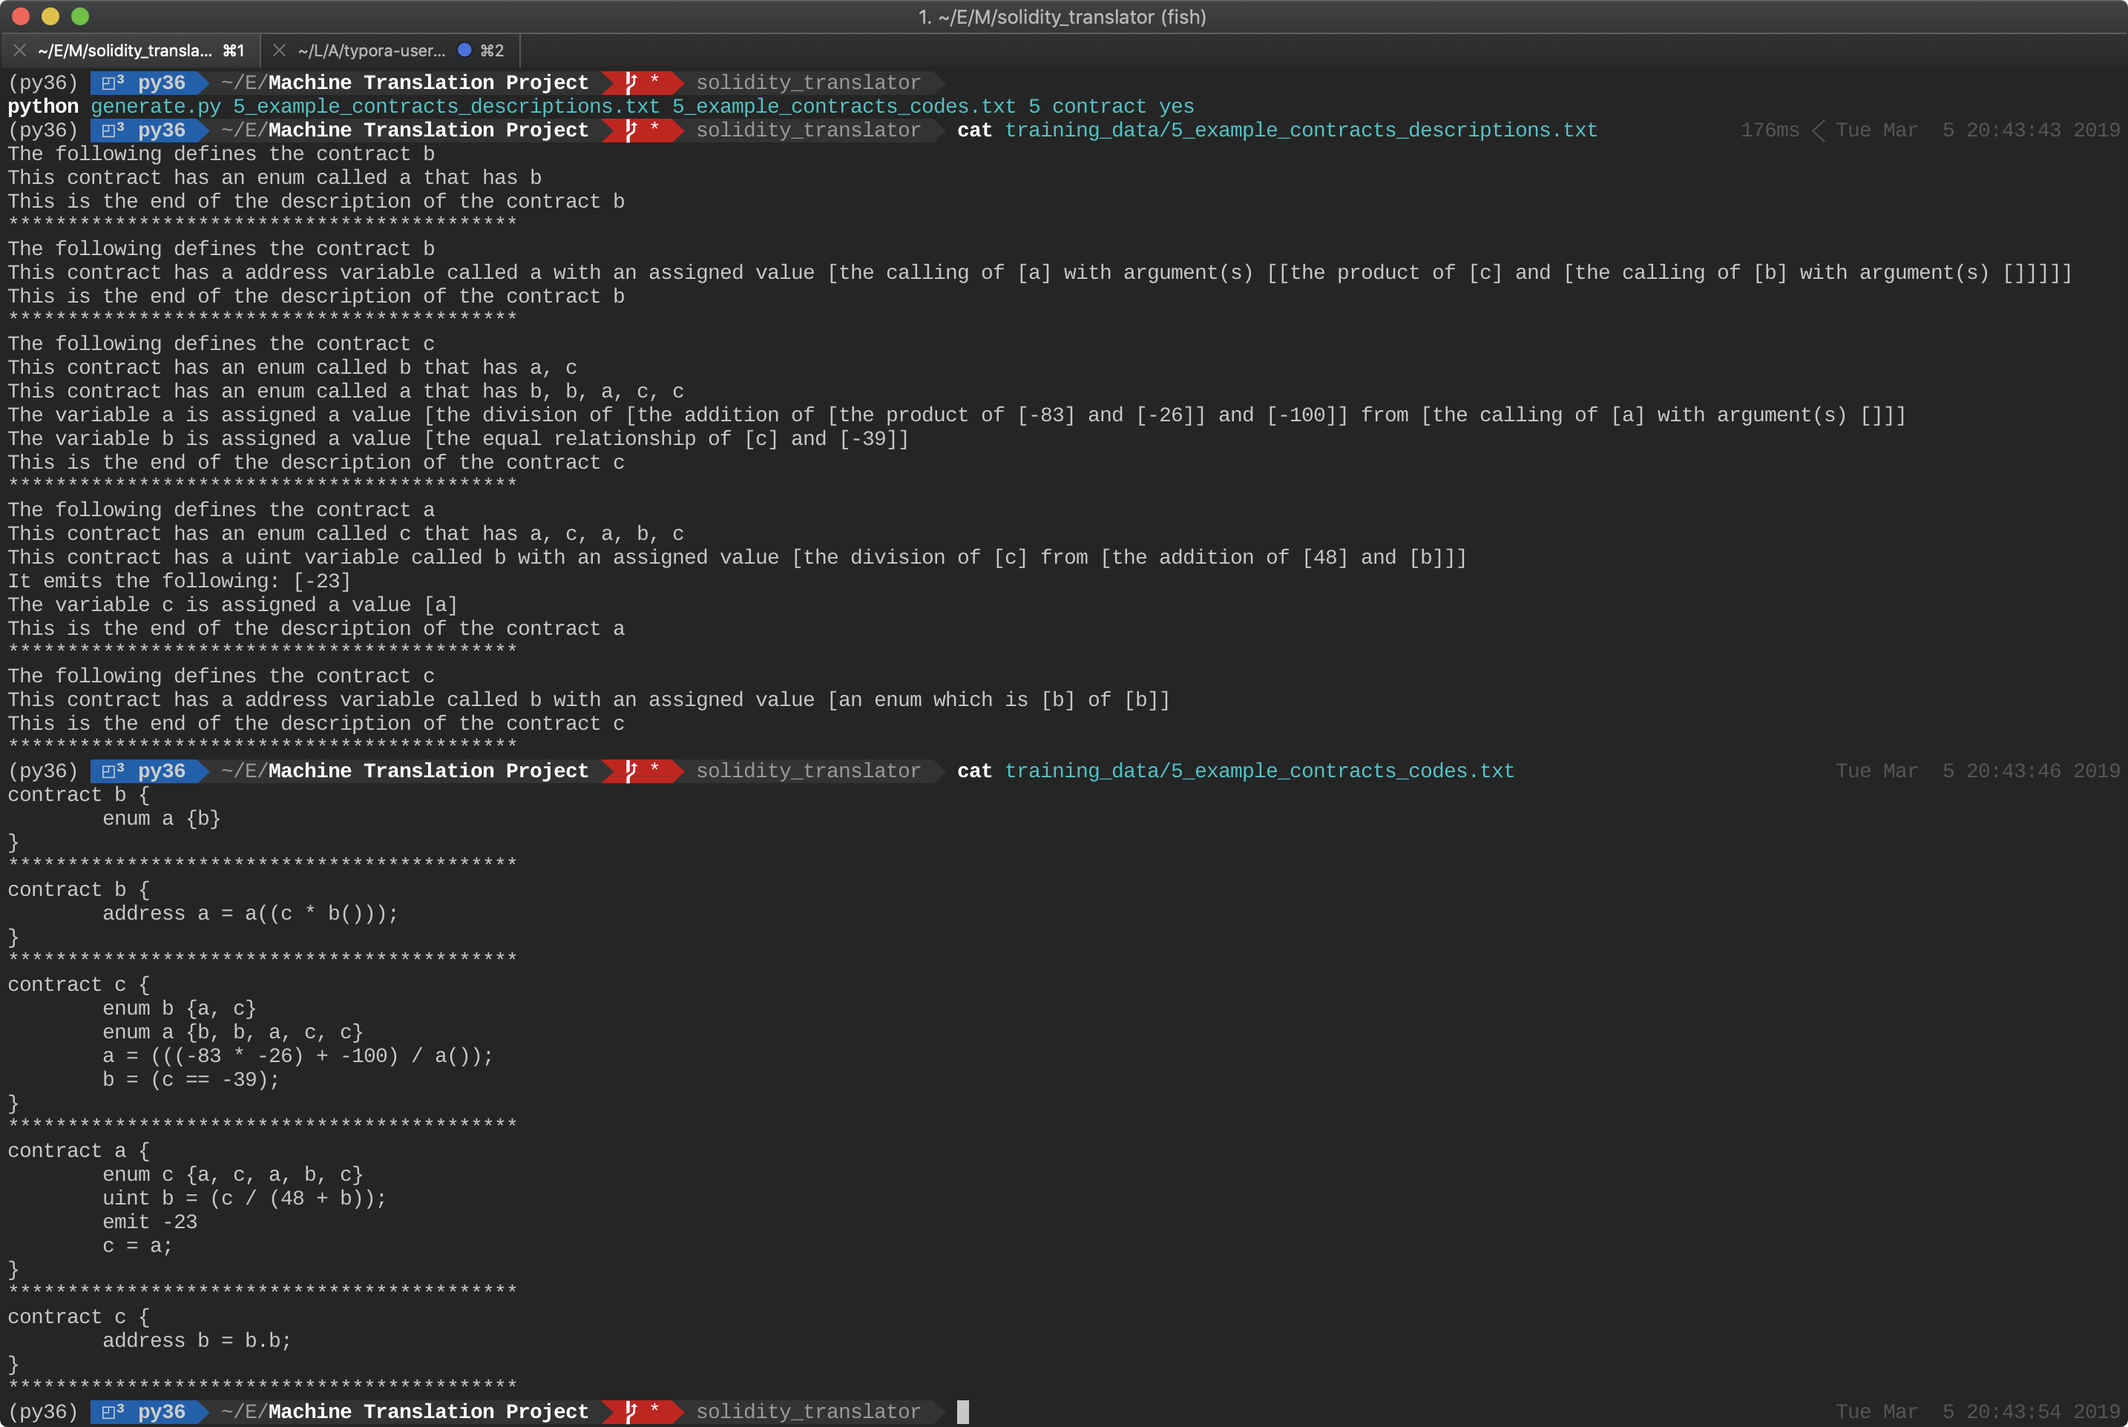
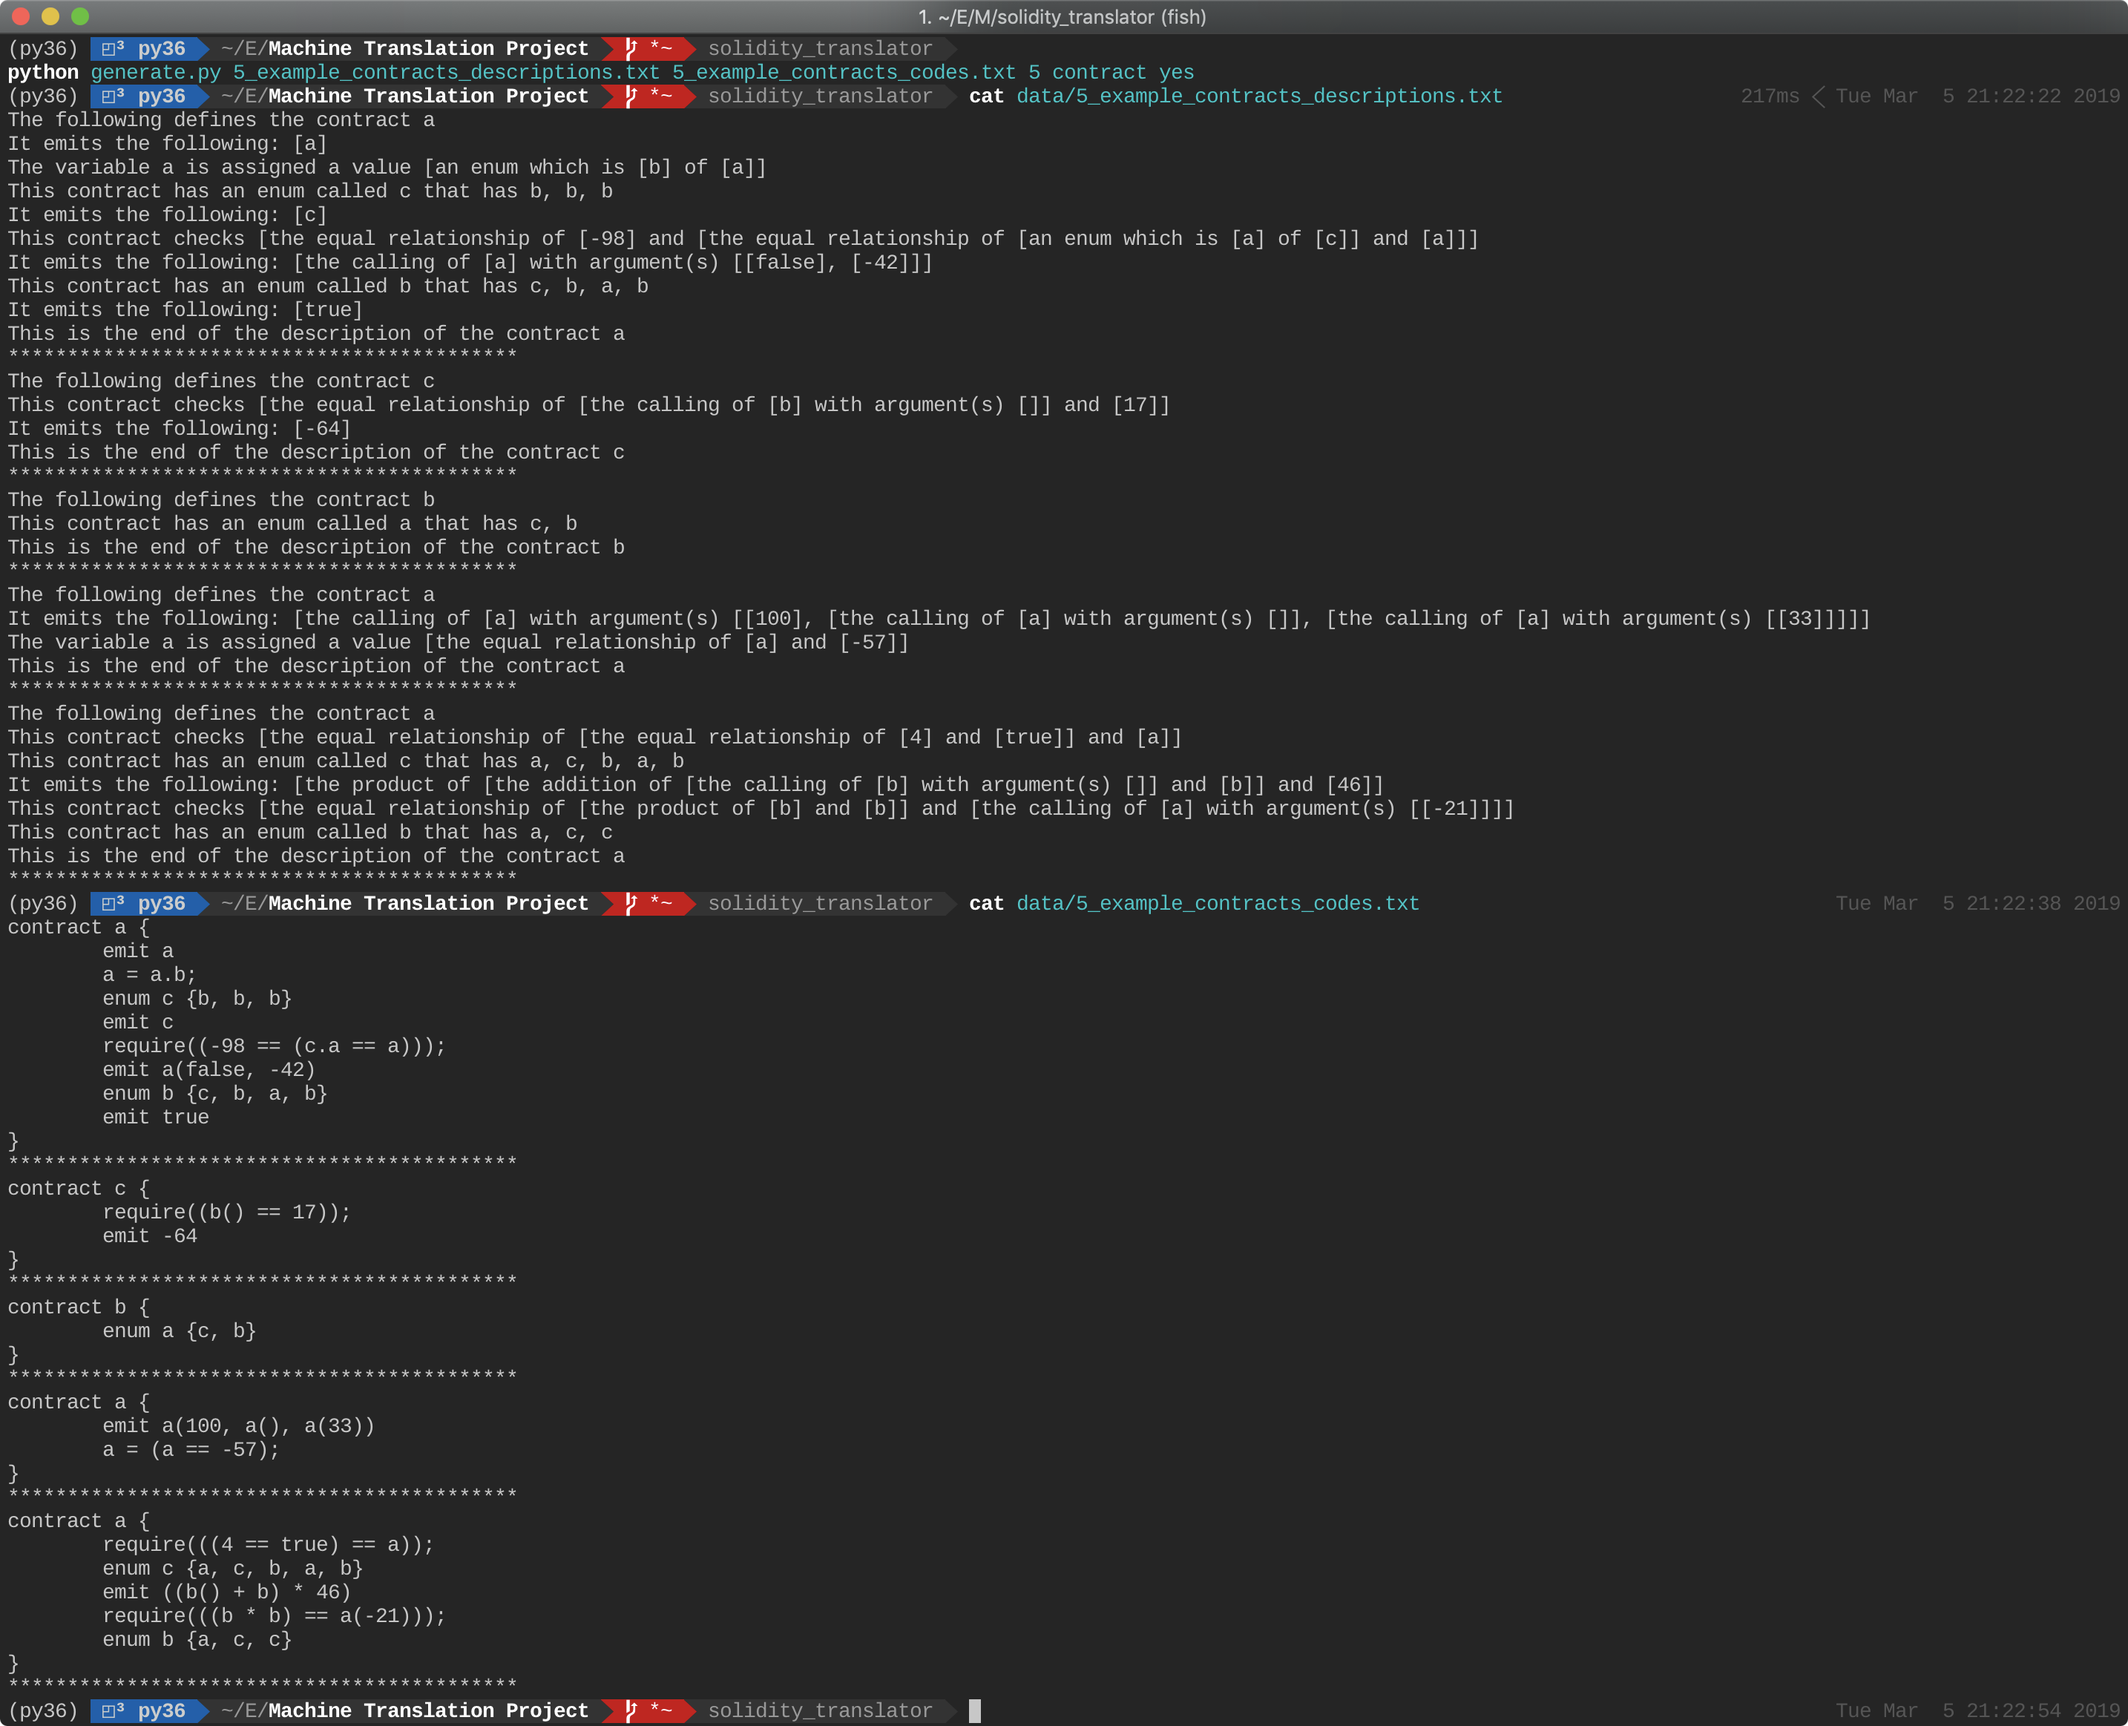
Removing training_data dir. Finishing the first draft of readme

diff --git a/solidity_translator/src/utils/sample_loader_saver.py b/solidity_translator/src/utils/sample_loader_saver.py
@@ -12,7 +12,7 @@ def save_samples_to_files(contracts: [DefineContract], text_file_name: str = Non
         write_items_to_file(contract_codes, code_file_name)
 
 
-def write_items_to_file(items, file_name, path_name='../training_data/', formatize=True):
+def write_items_to_file(items, file_name, path_name='../data/', formatize=True):
     file = open(path_name + file_name, 'w')
 
     for item in items:
@@ -26,7 +26,7 @@ def write_items_to_file(items, file_name, path_name='../training_data/', formati
     file.close()
 
 
-def load_sample_texts(text_file_name: str, path_name: str = '../training_data/') -> [[str]]:
+def load_sample_texts(text_file_name: str, path_name: str = '../data/') -> [[str]]:
     texts_lines = read_items_from_file(text_file_name, path_name)
     contract_texts = []
 
@@ -38,7 +38,7 @@ def load_sample_texts(text_file_name: str, path_name: str = '../training_data/')
     return contract_texts
 
 
-def load_sample_codes(code_file_name: str, path_name: str = '../training_data/') -> [[str]]:
+def load_sample_codes(code_file_name: str, path_name: str = '../data/') -> [[str]]:
     codes_lines = read_items_from_file(code_file_name, path_name)
     contract_codes = []
 
@@ -47,7 +47,7 @@ def load_sample_codes(code_file_name: str, path_name: str = '../training_data/')
     return contract_codes
 
 
-def read_items_from_file(file_name: str, path_name: str = '../training_data/') -> [[str]]:
+def read_items_from_file(file_name: str, path_name: str = '../data/') -> [[str]]:
     file = open(path_name + file_name, 'r')
     items = []
     item = []

diff --git a/solidity_translator/generate.py b/solidity_translator/generate.py
@@ -113,11 +113,11 @@ def main():
     samples = generate_samples(n, given_names)
     write_items_to_file(list(map(lambda sample: sample.convert_to_text(), samples)),
                         text_file_name,
-                        './training_data/',
+                        './data/',
                         formatize=formatize)
     write_items_to_file(list(map(lambda sample: beautify_contract_codes(sample.convert_to_solidity()), samples)),
                         code_file_name,
-                        './training_data/',
+                        './data/',
                         formatize=formatize)
 
 if __name__ == '__main__':

diff --git a/README.md b/README.md
@@ -14,9 +14,9 @@ Please note that this project is by far only a **prototype** or a **proof of con
 
 Above is an image demonstrating how to use this rudimentary translator that can translate a relatively restricted text in English into the code solidity to define a smart contract. The translation can be done in two methods: by rule or through the usage of a transformer obtained [here](https://github.com/jadore801120/attention-is-all-you-need-pytorch). 
 
-The rudimentary English text and the corresponding solidity code to train the transformer are generated together using the python script `generate.py` The generated files will be inside the `training_data` directory. An example usage is given below. 
+The rudimentary English text and the corresponding solidity code to train the transformer are generated together using the python script `generate.py` The generated files will be inside the `data` directory. An example usage is given below. 
 
-```
+```shell
 python generate.py 5_example_contracts_descriptions.txt \ 5_example_contracts_codes.txt 5 contract yes
 ```
 
@@ -28,15 +28,43 @@ The generated contracts are random. The dimension of the input names however is 
 
 The templates used to randomly generate the English texts and solidity codes are located in `solidity_translator/src/language_rules`. In this directory, there are two main classes: `Expression` and `Template`. Whereas an `Expression` is only something basic such as variable names or numerical operations, etc., a template can be as simple as a variable definition or as complicated as a definition of a function or even a whole contract. In addition, note how the expressions in the descriptions are surrounded by square brackets. This is a simplification so that during rule based translation, it is easier to manually parse the description texts and to generate the corresponding codes. 
 
+## Improving the translator by training the transformer model with contracts of more variety sorts
 
+If one wants to write his own contracts and test the translation functionality, he could refer two these two files in side the `solidity_translator/src/language_rules` directory, which contains the formats of the descriptions for each expression or template as well as the corresponding parsing rules, i.e. how to construct an expression or template if given a well written English text description.
 
+One should keep in mind that the currently trained transformer model is not powerful enough to handle all sorts of translation. It is trained to prove the possibility of using a transformer to do the translation task. One can certainly enhance the translator by doing the following:
 
+1.  Adding more expressions and templates in the `expressions.py` or `templates.py` correspondingly. In the `generate.py` use a larger set of vocabulary for variable names instead of the current `a b c`.
 
+2. Modify the file `sample_generator.py` to add functions to assist generating the newly created expressions or templates. 
 
+3. Call `generate.py` as shown above 2 times to generate 2 sets of new files, which located in the `data ` directory. One for training and the other for validating. One can control how many samples should be generated. *Note that in the above example, by the end of the command a `yes` is given. Here it should be `no`. This way, the description   generated for each contract will be one line instead of multiple.*
 
+4. For one set of files, rename the file containing textual descriptions into `train.en` and the other `train.de`. For the second set of files, rename the file containing the descriptions `val.en` and the other `val.de`. The reason to do this is to use the transformer as a blackbox. The transformer is built to demonstrate the translation from English to German. By renaming files as above and then train transformer with them, the transformer now should be able to translate from text to code.
 
+5. Move the above renamed files to the directory `solidity_translator/third_party_helper/attention-is-all-you-need-pytorch-master/data/multi30k/`.
 
+6. Follow the instructions on the original GitHub page for the transformer implementation to preprocess the text. *Note that* `-max_len=1000` *, which is not given on the original github page, is to make sure that the contract descriptions will not be shrinked.*  It can be made larger if in the future longer contract translation tasks are to be learned.
 
+   1. ```shell
+      for l in en de; do for f in data/multi30k/*.$l; do if [[ "$f" != *"test"* ]]; then sed -i "$ d" $f; fi;  done; done
+      
+      for l in en de; do for f in data/multi30k/*.$l; do perl tokenizer.perl -a -no-escape -l $l -q  < $f > $f.atok; done; done
+      
+      python preprocess.py -train_src data/multi30k/train.en.atok -train_tgt data/multi30k/train.de.atok -valid_src data/multi30k/val.en.atok -valid_tgt data/multi30k/val.de.atok -save_data data/multi30k.atok.low.pt -max_len=1000
+      ```
 
+7. Train the model by calling the following inside the transformer folder. If no cuda is available, remember to add the flag `-no_cuda`.
 
+```shell
+python train.py -data data/multi30k.atok.low.pt -save_model trained -save_mode best -proj_share_weight -label_smoothing
+```
 
+8. Test out the model by writing or generating descriptions and placing them inside the `data` directory. Then execute `translate.py` with proper file names to test out the training effectiveness.
+
+## Highlights and needs for improvements
+
+- Each `Expression` or `Template` object can be used to both generate corresponding texts and codes and to parse a correctly written texts into the corresponding objects to assist the rule-based translation.
+- For the translation done by transformer, a preprocessing step is taken to strip numbers from the text and replace them with tokens of format `NUM#` where `#` indicates which number it corresponds to. This is done using a dictionary, which is stored in a file. After the translation is done, the numbers are putting back into the files by reversing the preprocessing step. 
+- So far the support for variables is limited. However, it can be drastically improved by using the same mechanism that replaces numbers with tokens. The variable names can be stripped from the description texts and replaced with tokens of format `VAR#`. After the translation, the names can be restored with the saved dictionary. This way, the model can support way more variable names and the dimension of vocabulary will not be dramatically increased.
+- This project is only capable of translating English descriptions of very restricted formats into solidity code. In the future, it can be improved by training the transformer so that it can translate a English description of more relaxed format into the solidity code. The preprocessing step which involves replacing numbers and variable names with tags can also be done by a well trained transformer. The data can be gained by hiring workers to write descriptions instead of using automatically generated samples. 
